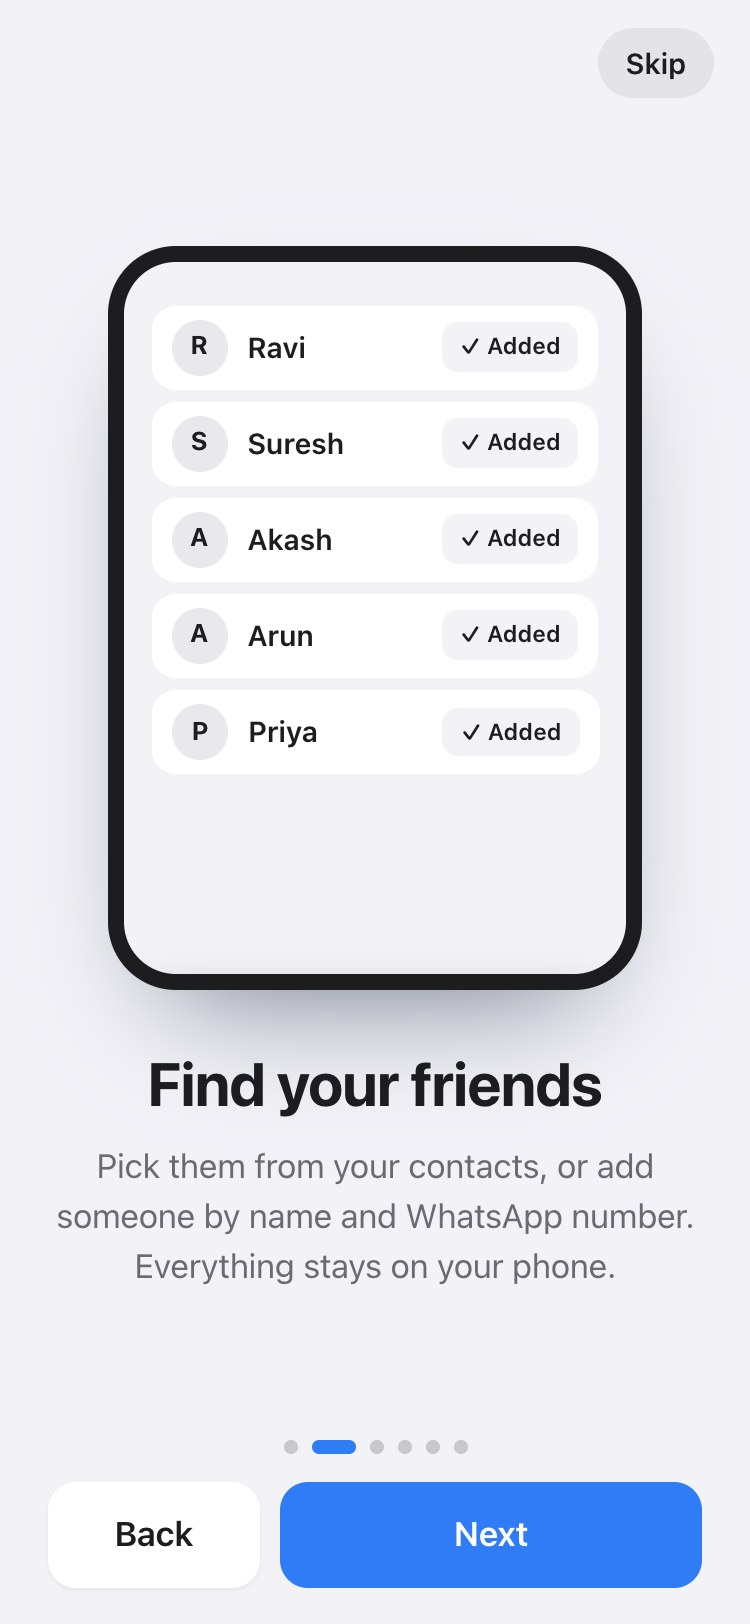
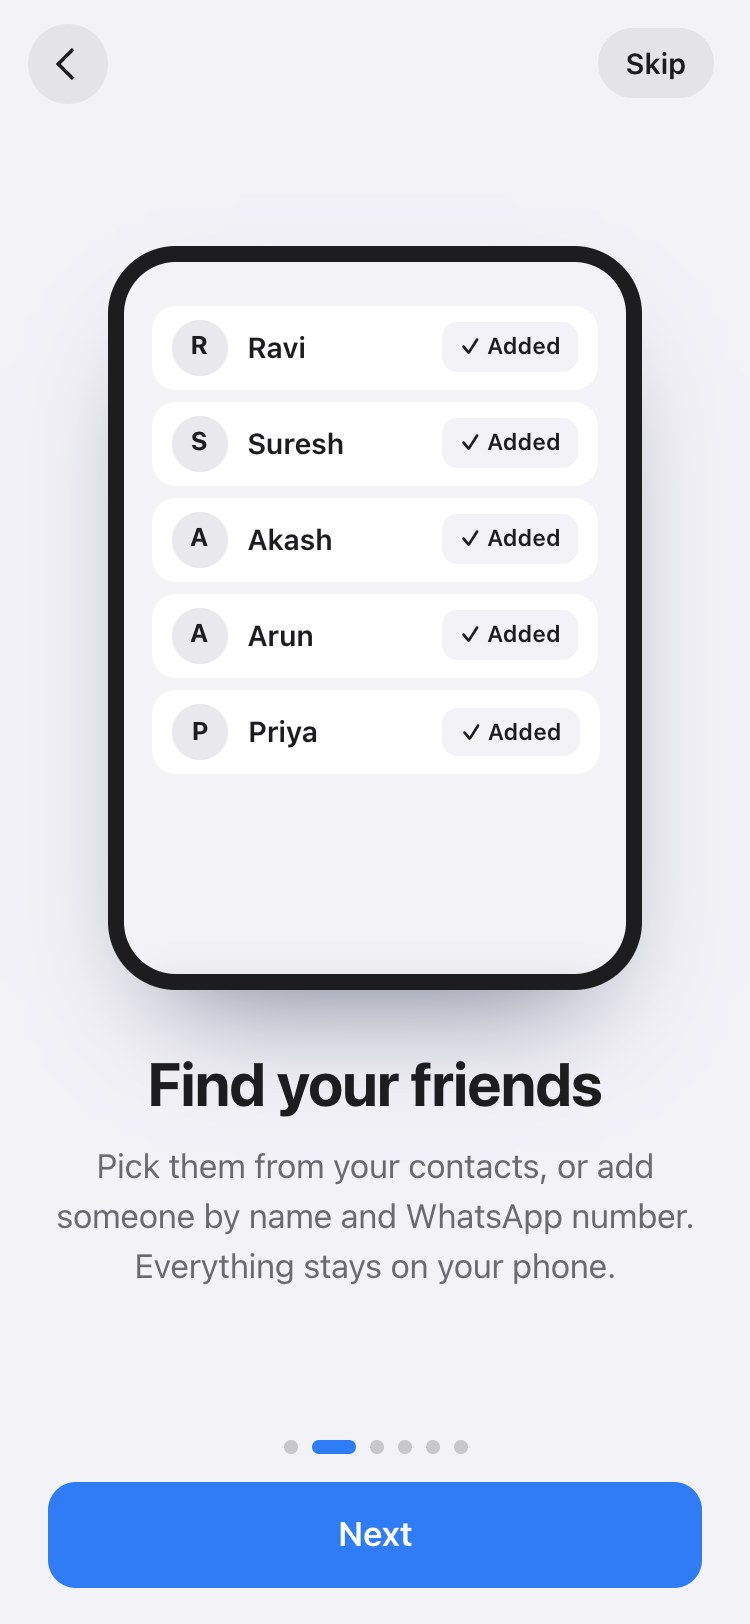
Tour: back arrow at the top left and swipe, instead of Back buttons; 987xxxxxxx in the friends demo

diff --git a/public/index.html b/public/index.html
@@ -13,7 +13,7 @@
 <meta name="mobile-web-app-capable" content="yes">
 <meta name="apple-mobile-web-app-title" content="Kitty">
 <meta name="apple-mobile-web-app-status-bar-style" content="default">
-<link rel="stylesheet" href="/static/style.css?v=22">
+<link rel="stylesheet" href="/static/style.css?v=23">
 </head>
 <body>
 <div class="app">
@@ -256,6 +256,7 @@
 
   <!-- Illustrated walkthrough: CSS and SVG only -->
   <section id="how" class="intro stage" hidden role="dialog" aria-modal="true" aria-label="How Kitty works">
+    <button id="howBack" class="tourBack" type="button" aria-label="Back"><svg viewBox="0 0 24 24" aria-hidden="true"><path d="M15.4 4.6 14 3.2 5.2 12l8.8 8.8 1.4-1.4L8 12z"/></svg></button>
     <button id="howSkip" class="introSkip" type="button">Skip</button>
     <div class="howStage">
       <div class="phone" id="phone" data-step="0">
@@ -333,12 +334,13 @@
     </div>
     <div class="introFoot">
       <div class="dots" id="howDots" aria-hidden="true"></div>
-      <div class="footBtns"><button id="howBack" class="primaryBtn ghost" type="button">Back</button><button id="howNext" class="primaryBtn" type="button">Next</button></div>
+      <button id="howNext" class="primaryBtn" type="button">Next</button>
     </div>
   </section>
 
   <!-- Last onboarding step: name and UPI -->
   <section id="setup" class="intro stage" hidden role="dialog" aria-modal="true" aria-label="Set up Kitty">
+    <button id="setupBack" class="tourBack" type="button" aria-label="Back"><svg viewBox="0 0 24 24" aria-hidden="true"><path d="M15.4 4.6 14 3.2 5.2 12l8.8 8.8 1.4-1.4L8 12z"/></svg></button>
     <div class="stageBody setupBody">      
         <div class="art artSetup"><span class="logoMic small"><svg viewBox="0 0 24 24" aria-hidden="true"><path d="M12 12a4 4 0 1 0 0-8 4 4 0 0 0 0 8Zm0 2c-3.3 0-8 1.7-8 5v1h16v-1c0-3.3-4.7-5-8-5Z"/></svg></span></div>
         <h2 class="slideTitle">Let's set you up</h2>
@@ -349,7 +351,7 @@
         </div>
         <p id="oError" class="error" hidden>Please add your name.</p>
           </div>
-    <div class="introFoot"><div class="footBtns"><button id="setupBack" class="primaryBtn ghost" type="button">Back</button><button id="setupDone" class="primaryBtn" type="button">Start using Kitty</button></div></div>
+    <div class="introFoot"><button id="setupDone" class="primaryBtn" type="button">Start using Kitty</button></div>
   </section>
 
   <!-- Contacts prompt in the main app -->
@@ -397,6 +399,6 @@
   <div id="toast" class="toast" role="status" hidden></div>
 </div>
 <div id="print" class="print" aria-hidden="true"></div>
-<script src="/static/app.js?v=23"></script>
+<script src="/static/app.js?v=24"></script>
 </body>
 </html>

diff --git a/public/static/app.js b/public/static/app.js
@@ -1045,7 +1045,7 @@ function showHow(i) {
     const typeInto = (box, text, then) => { const c = [...text]; let n = 0;
       const type = () => { box.textContent = c.slice(0, ++n).join(""); if (n < c.length) howTimer = setTimeout(type, 90); else if (then) howTimer = setTimeout(then, 250); };
       type(); };
-    howTimer = setTimeout(() => typeInto($("howFfName"), "Priya", () => typeInto($("howFfPhone"), "99999 99999")), 5700);
+    howTimer = setTimeout(() => typeInto($("howFfName"), "Priya", () => typeInto($("howFfPhone"), "987xxxxxxx")), 5700);
   }
   if (i === 4) {
     const chars = [..."Goa trip"];
@@ -1059,6 +1059,21 @@ $("howSkip").addEventListener("click", openSetup);
 // Back: to the previous step, from the first step to Welcome, and from set up to the last step
 $("howBack").addEventListener("click", () => { if (howAt > 0) showHow(howAt - 1); else { stopHow(); showStage("intro"); hideStage("how"); } });
 $("setupBack").addEventListener("click", () => { showStage("how"); showHow(HOW.length - 1); hideStage("setup"); });
+// Swipe like a phone: right to go back, left to go on. Works with a finger or a mouse drag.
+function onSwipe(id, back, next) {
+  let x0 = null, y0 = 0;
+  $(id).addEventListener("pointerdown", (e) => { if (e.target.closest("input,button")) { x0 = null; return; } x0 = e.clientX; y0 = e.clientY; });
+  $(id).addEventListener("pointerup", (e) => {
+    if (x0 === null) return;
+    const dx = e.clientX - x0, dy = e.clientY - y0;
+    x0 = null;
+    if (Math.abs(dx) < 60 || Math.abs(dx) < Math.abs(dy) * 1.5) return; // a scroll or a tap, not a swipe
+    if (dx > 0 && back) back(); else if (dx < 0 && next) next();
+  });
+}
+onSwipe("intro", null, openHow);
+onSwipe("how", () => $("howBack").click(), () => $("howNext").click());
+onSwipe("setup", () => $("setupBack").click(), null);
 // The tour shows once per tour version, so a changed tour reaches people who saw an older one.
 // Opening the app at /#welcome always shows it, which is handy for demos.
 if (state.onboarded !== TOUR_VERSION || ASKED_FOR_TOUR) openIntro();

diff --git a/public/static/style.css b/public/static/style.css
@@ -619,3 +619,9 @@ textarea.field{resize:none;line-height:1.4;font:inherit}
 .ffAdd{margin-top:4px;text-align:center;padding:8px;border-radius:10px;background:var(--blue);color:#fff;font-weight:600;font-size:.82rem}
 .play .ffAdd{animation:press .5s 7.9s var(--ease)}
 .ffList .ffNew .added{opacity:1}
+
+/* Tour: back arrow top left, like a phone app */
+.tourBack{position:absolute;top:calc(var(--safe-t) + 12px);left:14px;z-index:2;width:40px;height:40px;border:0;border-radius:50%;background:rgba(0,0,0,.06);display:grid;place-items:center;color:var(--ink)}
+.tourBack svg{width:22px;height:22px;fill:currentColor}
+.intro.stage{touch-action:pan-y}
+#intro{touch-action:pan-y}

diff --git a/public/sw.js b/public/sw.js
@@ -1,5 +1,5 @@
 // Keeps the app shell available so it opens like an app. API calls always go to the network.
-const CACHE = "kitty-v26";
+const CACHE = "kitty-v27";
 const SHELL = ["/", "/static/style.css?v=13", "/static/app.js?v=14", "/manifest.webmanifest", "/icons/icon-192.png"];
 self.addEventListener("install", (e) => { e.waitUntil(caches.open(CACHE).then((c) => c.addAll(SHELL))); self.skipWaiting(); });
 self.addEventListener("activate", (e) => {

diff --git a/test-outputs/README.md b/test-outputs/README.md
@@ -8,7 +8,7 @@ Every screenshot is made by `node tools/screenshots.mjs`, which opens the app in
 
 ### Welcome and guide tour
 
-Every tour screen after Welcome has Back and Next; Back on the first step returns to Welcome, and Back on set up returns to the last step. One expense runs through the guide: a ₹10,000 dinner where Akash skipped drinks. Its numbers come from the app's own split maths (`splits.py`).
+Every tour screen after Welcome has a back arrow at the top left, and you can swipe: right to go back, left to go on. Back on the first step returns to Welcome, and back on set up returns to the last step. One expense runs through the guide: a ₹10,000 dinner where Akash skipped drinks. Its numbers come from the app's own split maths (`splits.py`).
 
 | File | What it shows |
 |---|---|
@@ -16,7 +16,7 @@ Every tour screen after Welcome has Back and Next; Back on the first step return
 | `02-how-1-say.jpg` | 1 Just say it: types Tanglish, Hinglish, Tamil and Hindi examples, then stops on the English dinner |
 | `02-how-1-say-laptop-window.jpg` | The same step in a laptop-size window: the phone frame grows (300 × 470) instead of looking small |
 | `03-how-2-friends-1-contacts.jpg` | 2 Find your friends: allow contacts, then each person flips from Add to ✓ Added |
-| `03-how-2-friends-2-by-number.jpg` | 2, same screen: adding Priya by name and WhatsApp number |
+| `03-how-2-friends-2-by-number.jpg` | 2, same screen: adding Priya by name and a WhatsApp number shown as 987xxxxxxx |
 | `03-how-2-friends-3-added.jpg` | 2, end: Priya joins the list |
 | `04-how-3-names.jpg` | 3 Kitty finds the people: five names pop in, then Next |
 | `05-how-4-check.jpg` | 4 Check it, then save: food ₹7,500 for all 5, drinks ₹2,500 without Akash; Akash ₹1,500, everyone else ₹2,125 |
